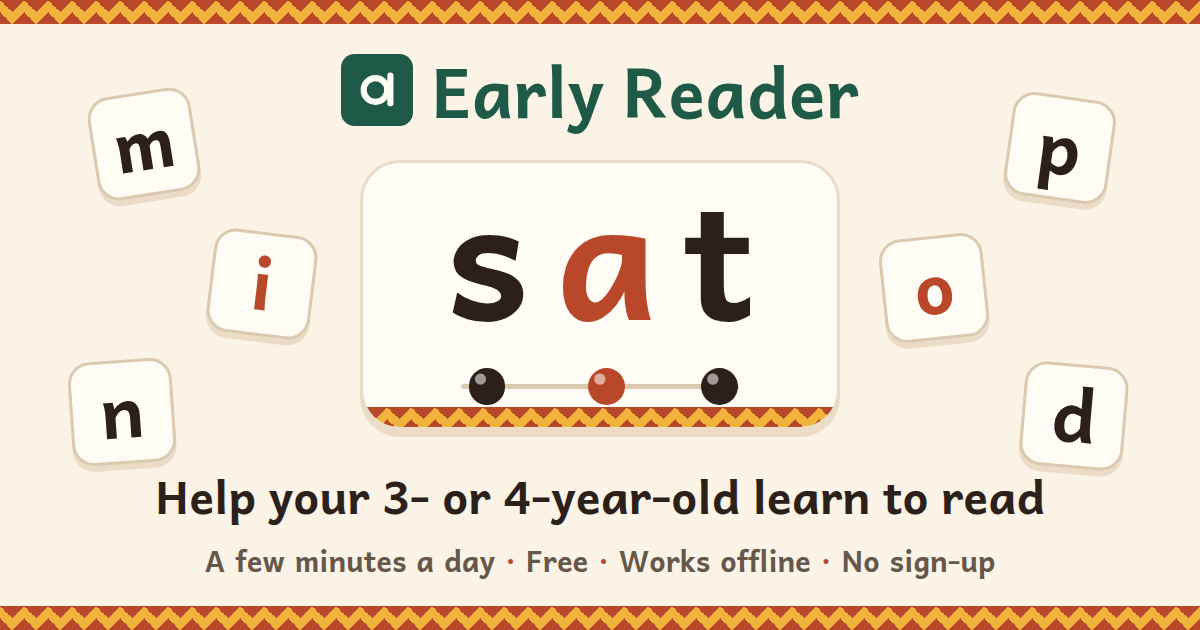
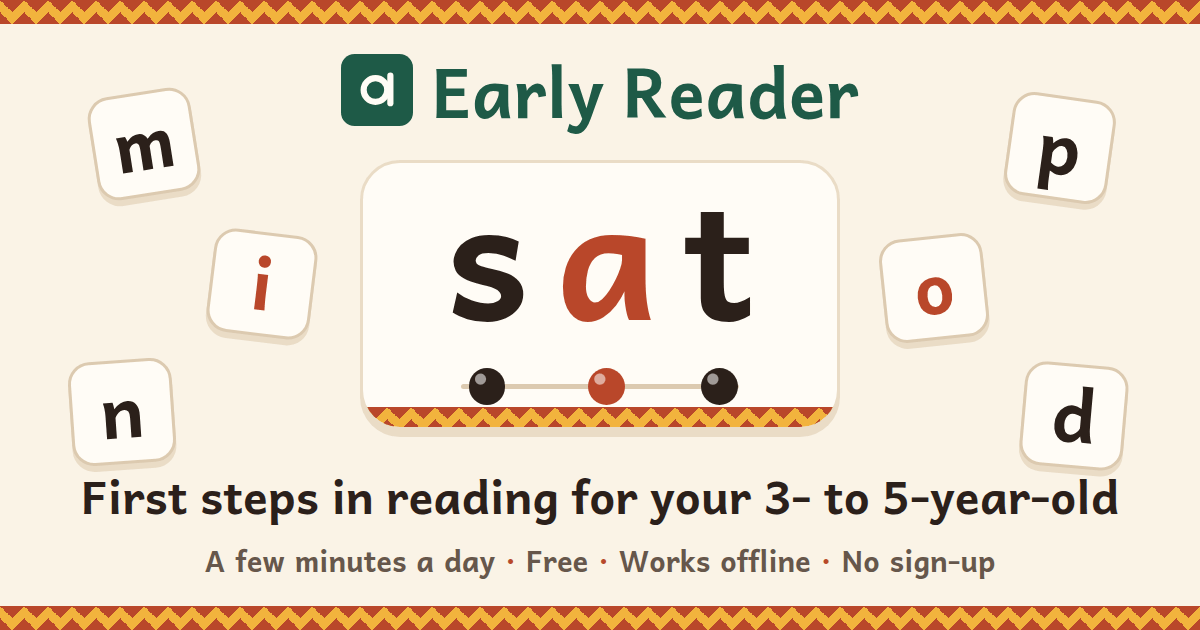
Use "First steps in reading for your 3- to 5-year-old" as the tagline
"Help your 3- or 4-year-old learn to read" gave the wrong age range
(the guide says 3 to 5) and set a bigger expectation than most
3-year-olds will meet: stage 1 is sound play, and decoding usually
comes later. The new line goes in the page description, the link
preview text and image, the home screen description and package.json.
The share card is re-rendered.

Changed region(s): [[0.0617, 0.754, 0.9558, 0.8444]]

diff --git a/index.html b/index.html
@@ -4,16 +4,16 @@
     <meta charset="utf-8" />
     <meta name="viewport" content="width=device-width, initial-scale=1, viewport-fit=cover" />
     <meta name="theme-color" content="#1e5a47" />
-    <meta name="description" content="Help your 3- or 4-year-old learn to read, a few minutes at a time. Works offline. Your data stays on your device." />
+    <meta name="description" content="First steps in reading for your 3- to 5-year-old. You teach sounds and letters, a few minutes at a time. Works offline. Your data stays on your device." />
     <title>Early Reader</title>
     <meta property="og:type" content="website" />
     <meta property="og:title" content="Early Reader" />
-    <meta property="og:description" content="Help your 3- or 4-year-old learn to read, a few minutes at a time. Free, works offline, and your data stays on your device." />
+    <meta property="og:description" content="First steps in reading for your 3- to 5-year-old. You teach sounds and letters, a few minutes at a time. Free, works offline, and your data stays on your device." />
     <meta property="og:url" content="https://moshthepitt.github.io/early-reader/" />
     <meta property="og:image" content="https://moshthepitt.github.io/early-reader/images/share-card.png" />
     <meta property="og:image:width" content="1200" />
     <meta property="og:image:height" content="630" />
-    <meta property="og:image:alt" content="The word sat with a bead under each sound, between letter tiles. Help your 3- or 4-year-old learn to read." />
+    <meta property="og:image:alt" content="The word sat with a bead under each sound, between letter tiles. First steps in reading for your 3- to 5-year-old." />
     <meta name="twitter:card" content="summary_large_image" />
     <link rel="manifest" href="manifest.webmanifest" />
     <link rel="icon" href="icons/icon.svg" type="image/svg+xml" />

diff --git a/images/share-card.html b/images/share-card.html
@@ -187,7 +187,7 @@
         <div class="word"><span>s<i></i></span><span class="v">a<i></i></span><span>t<i></i></span></div>
       </div>
 
-      <h1>Help your 3- or 4-year-old learn to read</h1>
+      <h1>First steps in reading for your 3- to 5-year-old</h1>
       <p>A few minutes a day<b>·</b>Free<b>·</b>Works offline<b>·</b>No sign-up</p>
     </div>
   </body>
